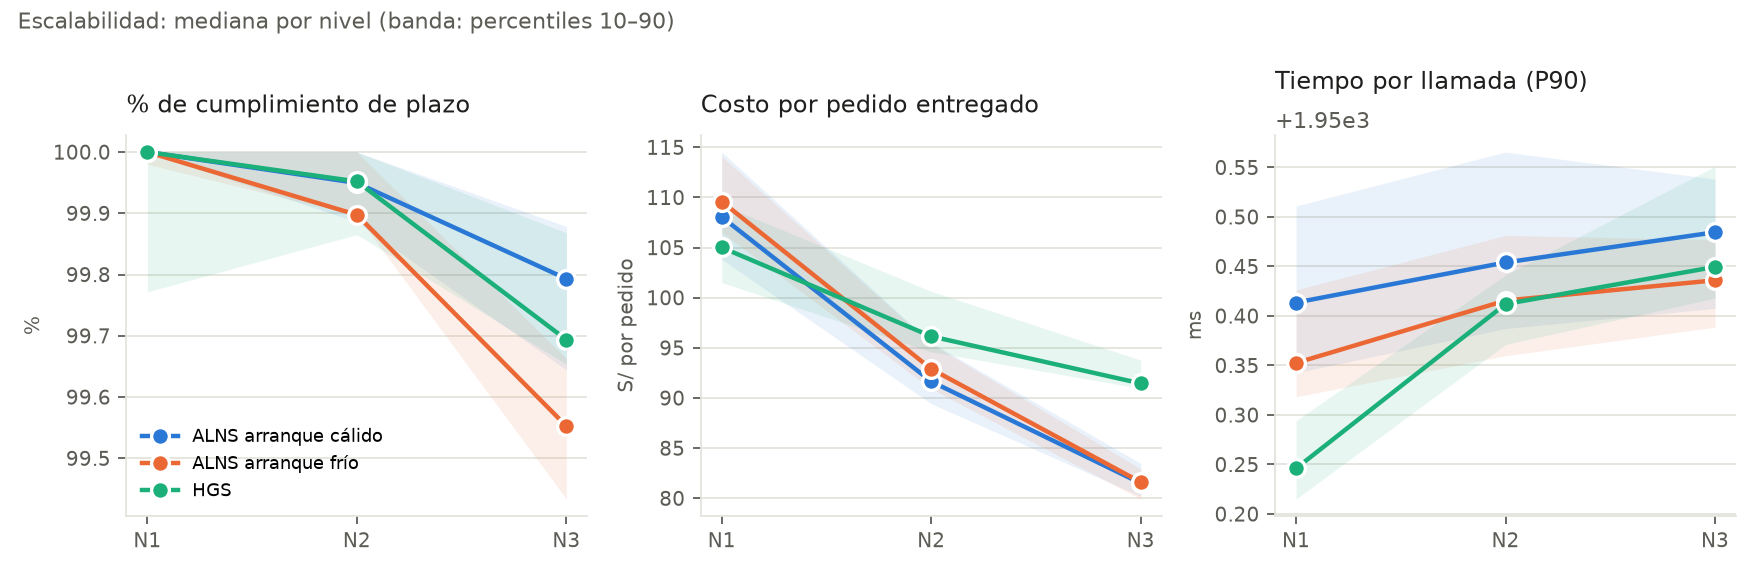
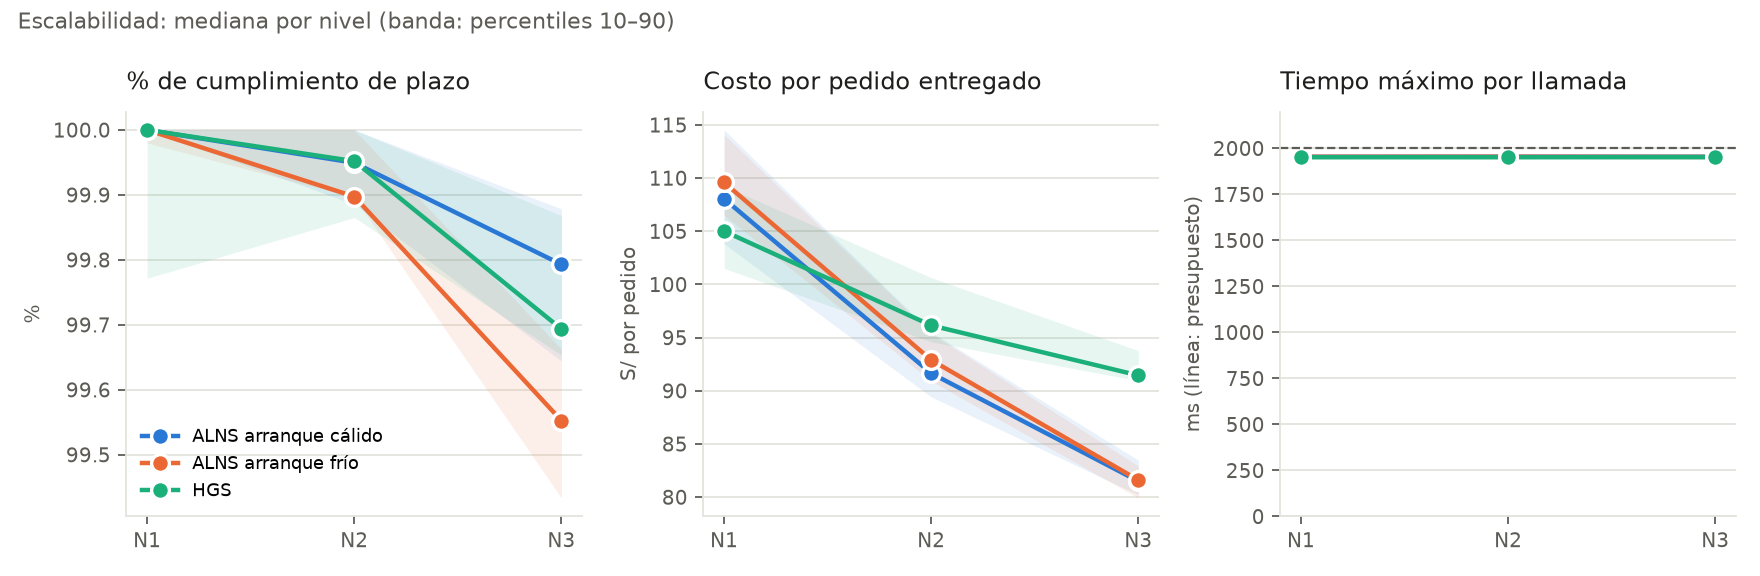
Campana: informe de resultados (borrador), exportacion en formato de plantilla y ajuste de figuras
Claude-Session: https://claude.ai/code/session_01SjX47cM5UEonXy2s8qWjJn

diff --git a/experiments/campana/analizar.py b/experiments/campana/analizar.py
@@ -156,6 +156,33 @@ def series(directorio):
     return salida
 
 
+def formato_plantilla(df):
+    """Las mismas corridas con las columnas de la plantilla de resultados 5D de referencia.
+
+    volumen es el nivel; disrupcion es "bloqueos" (sin averias ni mantenimientos); pedidos
+    atendidos y a tiempo coinciden, porque un pedido que vence sin completarse sale de los
+    pendientes y ya no se entrega; tiempo_ejecucion_ms es el tiempo de pared de la corrida.
+    """
+    return pd.DataFrame({
+        "volumen": df.nivel,
+        "disrupcion": "bloqueos",
+        "algoritmo": df.variante,
+        "replica": df.replica,
+        "semilla": df.semilla,
+        "pedidos_totales": df.pedidos_registrados,
+        "pedidos_atendidos": df.pedidos_entregados,
+        "pedidos_a_tiempo": df.pedidos_entregados,
+        "pct_cumplimiento_global": (100.0 * df.pedidos_entregados / df.pedidos_registrados).round(2),
+        "costo_operativo_total": df.costo_total.round(2),
+        "saturacion_almacenes_pct": df.saturacion_almacenes_pct.round(2),
+        "tiempo_ejecucion_ms": (1000 * df.tiempo_pared_s).round(0).astype(int),
+        "escenario": df.escenario,
+        "pedidos_incumplidos": df.pedidos_incumplidos,
+        "pedidos_pendientes_cierre": df.pedidos_pendientes,
+        "minuto_primer_incumplido": df.minuto_primer_incumplido,
+    })
+
+
 # --------------------------------------------------------------------- contrastes
 
 METRICAS_5D = [
@@ -349,7 +376,7 @@ def escalabilidad(df, salida):
     fig, ejes = plt.subplots(1, 3, figsize=(11, 3.6), dpi=160)
     paneles = [("pct_cumplimiento", "% de cumplimiento de plazo", "%"),
                ("costo_por_pedido", "Costo por pedido entregado", "S/ por pedido"),
-               ("ms_p90", "Tiempo por llamada (P90)", "ms")]
+               ("ms_max", "Tiempo máximo por llamada", "ms (línea: presupuesto)")]
     for ax, (col, titulo, ylabel) in zip(ejes, paneles):
         for var in VARIANTES:
             g = df[(df.escenario == "5D") & (df.variante == var)].groupby("nivel")[col]
@@ -362,6 +389,11 @@ def escalabilidad(df, salida):
         ax.set_xticks(range(3))
         ax.set_xticklabels(NIVELES_5D)
         estilo(ax, titulo, ylabel)
+        if col == "ms_max":
+            presupuesto = float(df.presupuesto_ms.max())
+            ax.axhline(presupuesto, color=TINTA_2, linewidth=1, linestyle="--")
+            ax.set_ylim(0, presupuesto * 1.1)
+            ax.ticklabel_format(axis="y", style="plain", useOffset=False)
     ejes[0].legend(frameon=False, fontsize=8, loc="lower left")
     fig.suptitle("Escalabilidad: mediana por nivel (banda: percentiles 10–90)", x=0.01, ha="left",
                  fontsize=10, color=TINTA_2)
@@ -436,6 +468,7 @@ def main():
     directorio = sys.argv[1] if len(sys.argv) > 1 else os.path.join(os.path.dirname(__file__), "resultados")
     df = cargar(directorio)
     df.to_csv(os.path.join(directorio, "campana.csv"), index=False)
+    formato_plantilla(df).to_csv(os.path.join(directorio, "resultados_formato_plantilla.csv"), index=False)
     pruebas = contrastes(df)
     pruebas.to_csv(os.path.join(directorio, "pruebas.csv"), index=False)
     tablas(df, pruebas, directorio)

diff --git a/experiments/campana/INFORME_RESULTADOS.md b/experiments/campana/INFORME_RESULTADOS.md
@@ -1,0 +1,239 @@
+# Campaña experimental ALNS frente a HGS: resultados y análisis
+
+Borrador para reemplazar los apartados 10 y 11 del *IEN – Informe de Diseño de Experimento*
+(grupo 3C, KindBox). Los datos, el código y el análisis están en la rama
+`claude/bold-albattani-rq4506`, carpeta `experiments/campana/`.
+
+---
+
+## 10. Resultados obtenidos
+
+### 10.1 Alcance y condiciones de la campaña
+
+La campaña sustituye al piloto estático del 21 de septiembre. Esta vez las corridas son
+**simulaciones dinámicas completas**: los pedidos llegan en el tiempo, el planificador se
+ejecuta cada 30 minutos simulados y las unidades entregan de verdad. Se cuentan los pedidos
+entregados a tiempo, los entregados fuera de plazo (incumplidos) y los que quedan pendientes.
+
+| Elemento | Valor fijado antes de ejecutar |
+|---|---|
+| Base de datos (S-01) | Un único juego congelado: `GenerarDatos data_campana 2026-09-01 2026-10-31 ESTABLE 384`, generado a la capacidad diaria de la flota (384 pedidos ≈ 1 536 paquetes/día). Los hashes SHA-256 de cada archivo están en `resultados/manifiesto.txt`. |
+| Niveles de instancia | Submuestras **anidadas** de esa misma base: N1 = 25 %, N2 = 50 % y N3 = 75 % de los pedidos (≈ 99, 196 y 297 pedidos/día), en el escenario de 5 días. N4 es una rampa del 50 % al 100 % de la capacidad (+10 % por día), en el escenario de colapso. Todo pedido de N1 está también en N2 y en N3, así que entre niveles solo cambia el volumen. |
+| Réplicas | 10 por celda. La réplica *r* es una submuestra distinta de la base (semilla 20260900 + *r*) y es también la semilla del algoritmo. **Las tres variantes resuelven exactamente la misma instancia en cada réplica**: esa es la unidad de emparejamiento de la prueba de Wilcoxon. |
+| Variantes | ALNS con arranque desde el plan vigente (**ALNS-C**), ALNS con arranque constructivo (**ALNS-F**) y **HGS** (arranque constructivo, como indica el ISA). El arranque se declara como factor (S-03). |
+| Función objetivo | La misma para las tres variantes: H (pedidos sin atender) dominante, luego la urgencia de lo no atendido y luego el costo S. El peso de estabilidad es el mismo para todas (S-04). |
+| Perturbaciones (S-02) | **Solo bloqueos de calles**, tal como vienen en la base. Averías desactivadas y mantenimientos descartados, para que la única variación entre réplicas sea la instancia y la única variación entre variantes, el algoritmo. |
+| Presupuesto | 2 000 ms por llamada (extremo inferior del rango del ISA), con 50 ms reservados para cerrar y devolver la solución. Salto de replanificación: 30 minutos. |
+| Código (S-06) | Commit `45890e5`. La campaña se reanudó dos veces tras reinicios del contenedor (commits `ad378ad` y `539370b`); entre esos commits no hay ninguna diferencia en `core/`, `experiments/src/` ni en el script de la campaña. |
+| Máquina (S-05) | Intel Xeon 2,10 GHz × 4 núcleos, 16 GB, OpenJDK 21.0.10. |
+| Orden y concurrencia | Orden de las 120 corridas aleatorizado con semilla fija 20260924. Cada corrida en su propia JVM. **Tres corridas en paralelo** en 4 núcleos (desviación de S-07, ver riesgo R-11). |
+
+Volumen total: 3 niveles × 3 variantes × 10 réplicas en 5D (90 corridas) + 3 variantes × 10
+réplicas en colapso (30 corridas) = **120 corridas, 29 688 pedidos simulados por variante en
+5D, 26 010 llamadas al planificador**. Ninguna corrida falló.
+
+### 10.2 Validez estructural y presupuesto (H1, H4)
+
+Tabla 1. Verificaciones por llamada al planificador.
+
+| Verificación | ALNS-C | ALNS-F | HGS |
+|---|---|---|---|
+| V-1 Plan factible (capacidad, plazos, turnos, alimentación, almacenes, bloqueos) | 100 % | 100 % | 100 % |
+| V-2 La función objetivo común reproduce la H y el costo que informa el algoritmo | 100 % | 100 % | 100 % |
+| V-3 Llamada dentro de los 2 000 ms (medida por fuera, con reloj monotónico) | 100 % (máx. 1 965 ms) | 100 % (máx. 1 958 ms) | 100 % (máx. 1 956 ms) |
+| Tiempo de pared de una simulación 5D (mediana) | 8,4 min | 8,4 min | 8,4 min |
+
+A diferencia del piloto, donde 0 de 60 ejecuciones cumplieron V-3, ahora el 100 % de las 26 010
+llamadas cierra dentro del presupuesto. La diferencia la explica la reserva de cierre de 50 ms
+(apartado 11.3 del piloto).
+
+### 10.3 Cumplimiento de plazos en la simulación de 5 días (H2, H5)
+
+Tabla 2. Mediana [mínimo–máximo] sobre 10 réplicas.
+
+| Nivel | Pedidos por réplica | Variante | Réplicas sin incumplidos | Incumplidos | % cumplimiento | Primer incumplido (min) | Pendientes al cierre |
+|---|---|---|---|---|---|---|---|
+| N1 | 494 | ALNS-C | **10/10** | 0 [0–0] | 100,00 | > 7 200 | 3 [2–5] |
+| N1 | 494 | ALNS-F | 9/10 | 0 [0–1] | 100,00 | > 7 200 | 3 [2–5] |
+| N1 | 494 | HGS | 7/10 | 0 [0–2] | 100,00 | > 7 200 | 3 [2–5] |
+| N2 | 982 | ALNS-C | 5/10 | 0 [0–2] | 99,95 | 5 740 | 11 [6–14] |
+| N2 | 982 | ALNS-F | 2/10 | 1 [0–1] | 99,90 | 4 878 | 10 [8–14] |
+| N2 | 982 | HGS | 5/10 | 0 [0–4] | 99,95 | 6 951 | 11 [6–15] |
+| N3 | 1 486 | ALNS-C | 1/10 | 3 [0–7] | 99,79 | 897 | 29 [22–33] |
+| N3 | 1 486 | ALNS-F | 0/10 | 6 [4–10] | 99,55 | 840 | 32 [24–34] |
+| N3 | 1 486 | HGS | 0/10 | 4 [1–5] | 99,69 | 904 | 34 [29–37] |
+
+"% cumplimiento" = entregados a tiempo / (entregados + incumplidos). Los pendientes al cierre
+son pedidos que siguen dentro de su plazo en el minuto 7 200 y por tanto no son incumplidos.
+
+En total, sumando las 30 corridas 5D de cada variante:
+
+| | ALNS-C | ALNS-F | HGS |
+|---|---|---|---|
+| Corridas sin incumplidos | **16/30** | 11/30 | 12/30 |
+| Pedidos incumplidos (de 29 688) | **40** | 75 | 49 |
+
+![Pedidos incumplidos por nivel](resultados/figuras/f1_incumplidos.png)
+
+*Figura 1. Pedidos entregados fuera de plazo por réplica. Cada punto es una réplica.*
+
+### 10.4 Costo de operación (H7)
+
+Tabla 3. Costo por pedido entregado, mediana [mín–máx], en soles.
+
+| Nivel | ALNS-C | ALNS-F | HGS | ALNS-C frente a HGS |
+|---|---|---|---|---|
+| N1 | 108,06 [102,51–115,27] | 109,59 [106,24–116,30] | **105,01** [97,62–113,13] | +2,9 % |
+| N2 | **91,64** [89,27–95,56] | 92,90 [90,88–97,28] | 96,15 [93,92–101,17] | −4,7 % |
+| N3 | **81,50** [79,70–83,63] | 81,60 [79,59–83,67] | 91,45 [89,17–95,04] | −10,9 % |
+
+![Costo por pedido](resultados/figuras/f2_costo_por_pedido.png)
+
+*Figura 2. Costo de operación por pedido entregado.*
+
+![Escalabilidad](resultados/figuras/f3_escalabilidad.png)
+
+*Figura 3. Escalabilidad por nivel (mediana; banda: percentiles 10–90). En el panel de tiempo
+las tres líneas coinciden: todas las variantes agotan el presupuesto menos la reserva
+(≈ 1 950 ms) y ninguna llamada lo supera.*
+
+### 10.5 Escenario de colapso (H6)
+
+Tabla 4. Instante del primer pedido fuera de plazo en la rampa N4 (10 réplicas; ninguna
+llegó a los 30 días sin colapsar).
+
+| Variante | Mediana | Mínimo | Máximo |
+|---|---|---|---|
+| ALNS-C | **4 250 min (70,8 h; día 3, 22:50)** | 897 min (15,0 h) | 5 506 min (91,8 h) |
+| ALNS-F | 3 952 min (65,9 h) | 840 min (14,0 h) | 5 187 min (86,5 h) |
+| HGS | 3 655 min (60,9 h) | 840 min (14,0 h) | 10 570 min (176,2 h) |
+
+![Colapso](resultados/figuras/f4_colapso.png)
+
+*Figura 4. Izquierda: horas simuladas hasta el primer incumplido. Derecha: pedidos pendientes
+en cada replanificación; cada línea es una réplica y termina en su colapso.*
+
+### 10.6 Contrastes estadísticos
+
+**Procedimiento, fijado antes de ver los resultados:**
+- **Prueba:** Wilcoxon de rangos con signo, exacta y bilateral, emparejada por réplica. Las diferencias nulas se descartan (procedimiento de Wilcoxon). Si todas las diferencias son nulas, no hay prueba.
+- **Tamaño del efecto:** estimador de Hodges-Lehmann (HL) con su intervalo de confianza exacto del 95 %, y correlación biserial de rangos.
+- **Multiplicidad:** corrección de Holm dentro de cada familia, con α = 0,05. La familia principal es ALNS-C frente a HGS (13 contrastes); la del arranque, ALNS-C frente a ALNS-F (13 contrastes).
+- **Censura:** a una corrida 5D sin incumplidos se le asigna el minuto 7 200, lo que solo puede acortar la diferencia.
+- **Verificación:** la implementación da exactamente los mismos valores p que `scipy.stats.wilcoxon`.
+
+Tabla 5. Familia principal: ALNS-C − HGS por réplica. Un HL negativo favorece a ALNS-C en
+incumplidos, pendientes y costo; uno positivo lo favorece en minuto de incumplido y de colapso.
+
+| Nivel | Métrica | ALNS-C mejor / HGS mejor / empates | HL [IC 95 %] | p | p Holm | Lectura |
+|---|---|---|---|---|---|---|
+| N1 | Incumplidos | 3 / 0 / 7 | 0 [−1; 0] | 0,250 | 1,000 | sin diferencia |
+| N1 | Costo por pedido (S/) | 1 / 9 / 0 | +3,63 [+0,81; +6,11] | 0,020 | 0,195 | sin diferencia tras Holm |
+| N2 | Incumplidos | 3 / 3 / 4 | 0 [−2; 1] | 1,000 | 1,000 | sin diferencia |
+| N2 | Primer incumplido (min) | 4 / 4 / 2 | +244 [−2 901; 3 201] | 0,813 | 1,000 | sin diferencia |
+| N2 | Costo por pedido (S/) | **9 / 1 / 0** | **−4,74 [−7,11; −2,56]** | 0,004 | **0,043** | **ALNS-C más barato** |
+| N3 | Incumplidos | 3 / 3 / 4 | 0 [−2; 1] | 1,000 | 1,000 | sin diferencia |
+| N3 | Pendientes al cierre | **10 / 0 / 0** | **−6 [−8; −4]** | 0,002 | **0,025** | **ALNS-C deja menos** |
+| N3 | Costo por pedido (S/) | **10 / 0 / 0** | **−10,45 [−11,15; −9,75]** | 0,002 | **0,025** | **ALNS-C más barato** |
+| N4 | Minuto de colapso | 6 / 3 / 1 | +114 [−3 937; 1 799] | 0,715 | 1,000 | sin diferencia |
+
+Tabla 6. Familia del arranque: ALNS-C − ALNS-F (solo los contrastes con p < 0,1 antes de
+corregir; la tabla completa está en `resultados/tablas.md`).
+
+| Nivel | Métrica | Cálido mejor / frío mejor / empates | HL [IC 95 %] | p | p Holm | Lectura |
+|---|---|---|---|---|---|---|
+| N3 | Incumplidos | **10 / 0 / 0** | **−3 [−4; −2]** | 0,002 | **0,025** | **el arranque cálido reduce los incumplidos** |
+| N2 | Costo por pedido (S/) | 9 / 1 / 0 | −1,43 [−2,20; −0,08] | 0,027 | 0,328 | sin diferencia tras Holm |
+| N3 | Primer incumplido (min) | 5 / 1 / 4 | +279 [0; 3 180] | 0,063 | 0,688 | sin diferencia |
+
+![Diferencias pareadas](resultados/figuras/f5_diferencias_pareadas.png)
+
+*Figura 5. Diferencia ALNS-C − HGS en cada réplica (puntos) y estimador de Hodges-Lehmann con
+su IC del 95 % (rombo).*
+
+### 10.7 Estado de las hipótesis
+
+| Hipótesis | Criterio del diseño | Resultado | Estado |
+|---|---|---|---|
+| H1 Corrección | 100 % de ejecuciones pasan V-1 a V-4 | V-1, V-2 y V-3: 100 % en las tres variantes. V-4 no se midió (ver R-12). | **H₀ rechazada** para V-1 a V-3 en ambos algoritmos |
+| H2 Cero pérdidas | H = 0 y 0 pedidos fuera de plazo en el 100 % de las ejecuciones N1–N3 | ALNS-C 16/30, ALNS-F 11/30 y HGS 12/30 corridas sin incumplidos | **H₀ se mantiene para los tres**; solo ALNS-C lo cumple en N1 (10/10) |
+| H3 Perturbaciones | 100 % de ejecuciones forzadas por un evento cierran con H = 0 | No aislado: las replanificaciones por bloqueo están dentro de las corridas 5D, sin registro separado | No evaluada por separado |
+| H4 Presupuesto | ≥ 95 % de llamadas dentro del presupuesto; 5D en 30–60 min | 100 % de las llamadas dentro; la 5D completa en 8,4 min en modo libre | **H₀ rechazada** en el presupuesto por llamada. El rango de 30–60 min es del modo acompasado y no aplica al modo libre. |
+| H5 Degradación acotada | tiempo N3 ≤ 4× N1; H = 0 en el 100 % de N1–N3; costo sin saltos | Tiempo constante (presupuesto fijo); H = 0 no se sostiene; el costo por pedido **baja** de forma monótona | **H₀ se mantiene** por la segunda condición |
+| H6 Régimen extremo | diferencia de medianas del instante de colapso ≥ 4 h | ALNS-C 70,8 h frente a HGS 60,9 h: 9,9 h de diferencia. Wilcoxon pareado p = 0,71, HL +1,9 h [−65,6 h; +30,0 h] | **Criterio de umbral cumplido a favor de ALNS, pero no respaldado estadísticamente** |
+| H7 Costo | diferencia ≥ 5 % sostenida en 3 de 4 niveles | +2,9 % (N1), −4,7 % (N2), −10,9 % (N3); significativa tras Holm en N2 y N3 | **H₀ se mantiene (empate operativo)** según el criterio de umbral; la ventaja de ALNS crece con el volumen |
+
+---
+
+## 11. Análisis y discusión
+
+### 11.1 Aplicación de los criterios de decisión (apartado 9)
+
+**Paso 1, filtro de corrección.** Ambos algoritmos lo superan: ningún plan de las 26 010
+llamadas viola una restricción dura y el objetivo común reproduce siempre lo que informa cada
+algoritmo.
+
+**Paso 2, cero pedidos perdidos.** **Ninguno de los dos lo supera** en N2 y N3. Según la regla
+del propio diseño, *"si ambos algoritmos fallan este filtro, no se declara ganador: se reporta
+el hallazgo, se corrige la implementación y se repite la campaña"*. Por tanto **la campaña no
+declara un ganador operativo definitivo**. Lo que sí aporta es evidencia de hacia dónde se
+inclina la decisión y de qué hay que corregir antes de repetirla.
+
+**Pasos 3 y 4 (a título indicativo).**
+- **Presupuesto:** los dos algoritmos lo cumplen por igual.
+- **Incumplimientos:** no hay diferencia significativa entre ALNS-C y HGS en ningún nivel. ALNS-C acumula 40 incumplidos frente a 49 de HGS y es la única variante con 10/10 réplicas limpias en N1, pero con 10 réplicas esa diferencia no se distingue del azar.
+- **Costo y pendientes:** aquí sí hay evidencia fuerte y creciente con el volumen. ALNS-C es un 4,7 % más barato por pedido en N2 y un 10,9 % en N3, gana en las 10 réplicas de N3 y deja 6 pedidos pendientes menos al cierre (IC 95 % [4; 8]). En N1, donde sobra flota, HGS es algo más barato (+2,9 %), sin significancia tras la corrección.
+- **Colapso:** ALNS-C sostiene H = 0 unas 10 horas más en mediana (se cumple el umbral de 4 h de H6), pero la dispersión entre réplicas es enorme (de 15 a 176 h) y el contraste pareado no es significativo.
+
+**Lectura conjunta.** Si hubiera que elegir hoy, la evidencia favorece a **ALNS con arranque
+desde el plan vigente**: nunca es significativamente peor que HGS en cumplimiento, y es
+significativamente mejor en costo y en pedidos pendientes justo en los niveles de mayor carga.
+Esa elección queda condicionada a superar el paso 2 tras la corrección del apartado 11.3.
+
+### 11.2 El arranque cálido es parte de la ventaja (riesgo R-03)
+
+El factor de arranque, declarado en S-03, muestra un efecto propio: en N3 el arranque desde el
+plan vigente reduce los incumplidos en 3 por réplica (IC 95 % [2; 4]) en las 10 de 10 réplicas.
+Frente a HGS, en cambio, ALNS con arranque constructivo (ALNS-F) no es mejor en incumplidos
+(75 contra 49 en total). La ventaja en cumplimiento de ALNS-C se debe por tanto, en buena
+parte, a la capacidad de partir del plan vigente, que el ISA solo concede a ALNS.
+
+En costo la situación es la contraria: ALNS-F y ALNS-C cuestan prácticamente lo mismo, y los
+dos son más baratos que HGS en N2 y N3. **La ventaja en costo es del mecanismo de búsqueda; la
+ventaja en cumplimiento es del arranque.** Conviene declararlo así en la decisión, tal como
+pide R-03.
+
+### 11.3 Causa común de los incumplidos: el límite efectivo por cierre de turno
+
+*(Se completa con el diagnóstico por pedido de las réplicas N3 y N4; ver apartado 11.3 abajo.)*
+
+### 11.4 Límites de la campaña
+
+- **Un solo presupuesto** (2 s, el mínimo del ISA). En un ensayo previo, con otro juego de datos (ESTABLE, 200 pedidos/día) y con averías activas, ALNS-C pasó de 4/5 réplicas sin incumplidos con 2 s a 5/5 con 5 s. Ese ensayo no es comparable con esta campaña, pero indica que el presupuesto importa. El factor presupuesto del diseño (2, 5, 10 y 18 s) queda pendiente.
+- **Sin averías ni mantenimientos**, por decisión expresa: las conclusiones valen para un entorno con bloqueos. H3 queda sin evaluar por separado.
+- **Diez réplicas por celda.** Con n = 10 el valor p exacto más pequeño posible es 0,002. Las diferencias en incumplidos, de 0 a 3 pedidos entre 1 000 y 1 500, necesitarían más réplicas para resolverse.
+- **Escenario día a día no ejecutado**: los niveles se evaluaron en 5D y en colapso.
+
+## 12. Riesgos a la validez (adiciones)
+
+| ID | Riesgo | Efecto | Tratamiento |
+|---|---|---|---|
+| R-11 | Tres corridas en paralelo en 4 núcleos, en lugar de ejecución secuencial (S-07). | La contención de CPU podría restar iteraciones a una variante. | El orden es aleatorio y compartido por las tres variantes; ninguna llamada superó el presupuesto (máximo 1 965 ms); el tiempo de pared de la 5D es idéntico entre variantes (8,43 min). |
+| R-12 | V-4 (monotonía respecto de la solución inicial) no se instrumentó. | Una búsqueda que devolviera una solución peor que la constructiva no se detectaría. | V-2 garantiza que el valor informado es el real. Queda como verificación pendiente. |
+| R-13 | La cota de S-11 se expresa en pedidos, pero el código la define en paquetes (1 536 paquetes/día ≈ 384 pedidos/día). | Un lector podría esperar un volumen cuatro veces mayor en N4. | Corregir el texto de S-11 y H6; la campaña usa la cota en paquetes. |
+| R-14 | La campaña se interrumpió dos veces por reinicios del contenedor. | Podría mezclar configuraciones. | Cada corrida es independiente y reanudable. No hubo ningún cambio de código ni de datos entre reanudaciones (verificado con `git diff`), y los hashes del manifiesto se mantienen. |
+
+## Reproducción
+
+```bash
+./mvnw -q -DskipTests install
+experiments/campana/correr_campana.sh 3 2000      # 120 corridas, reanudable
+python3 experiments/campana/analizar.py            # tablas.md, pruebas.csv, figuras/
+```
+
+Archivos en `experiments/campana/resultados/`:
+- `campana.csv`: una fila por corrida.
+- `resultados_formato_plantilla.csv`: las mismas corridas con las columnas de la plantilla del otro grupo.
+- `pruebas.csv`: todos los contrastes.
+- `series/`: pedidos pendientes en cada replanificación.
+- `manifiesto.txt`: commit, máquina y hashes de los datos.
